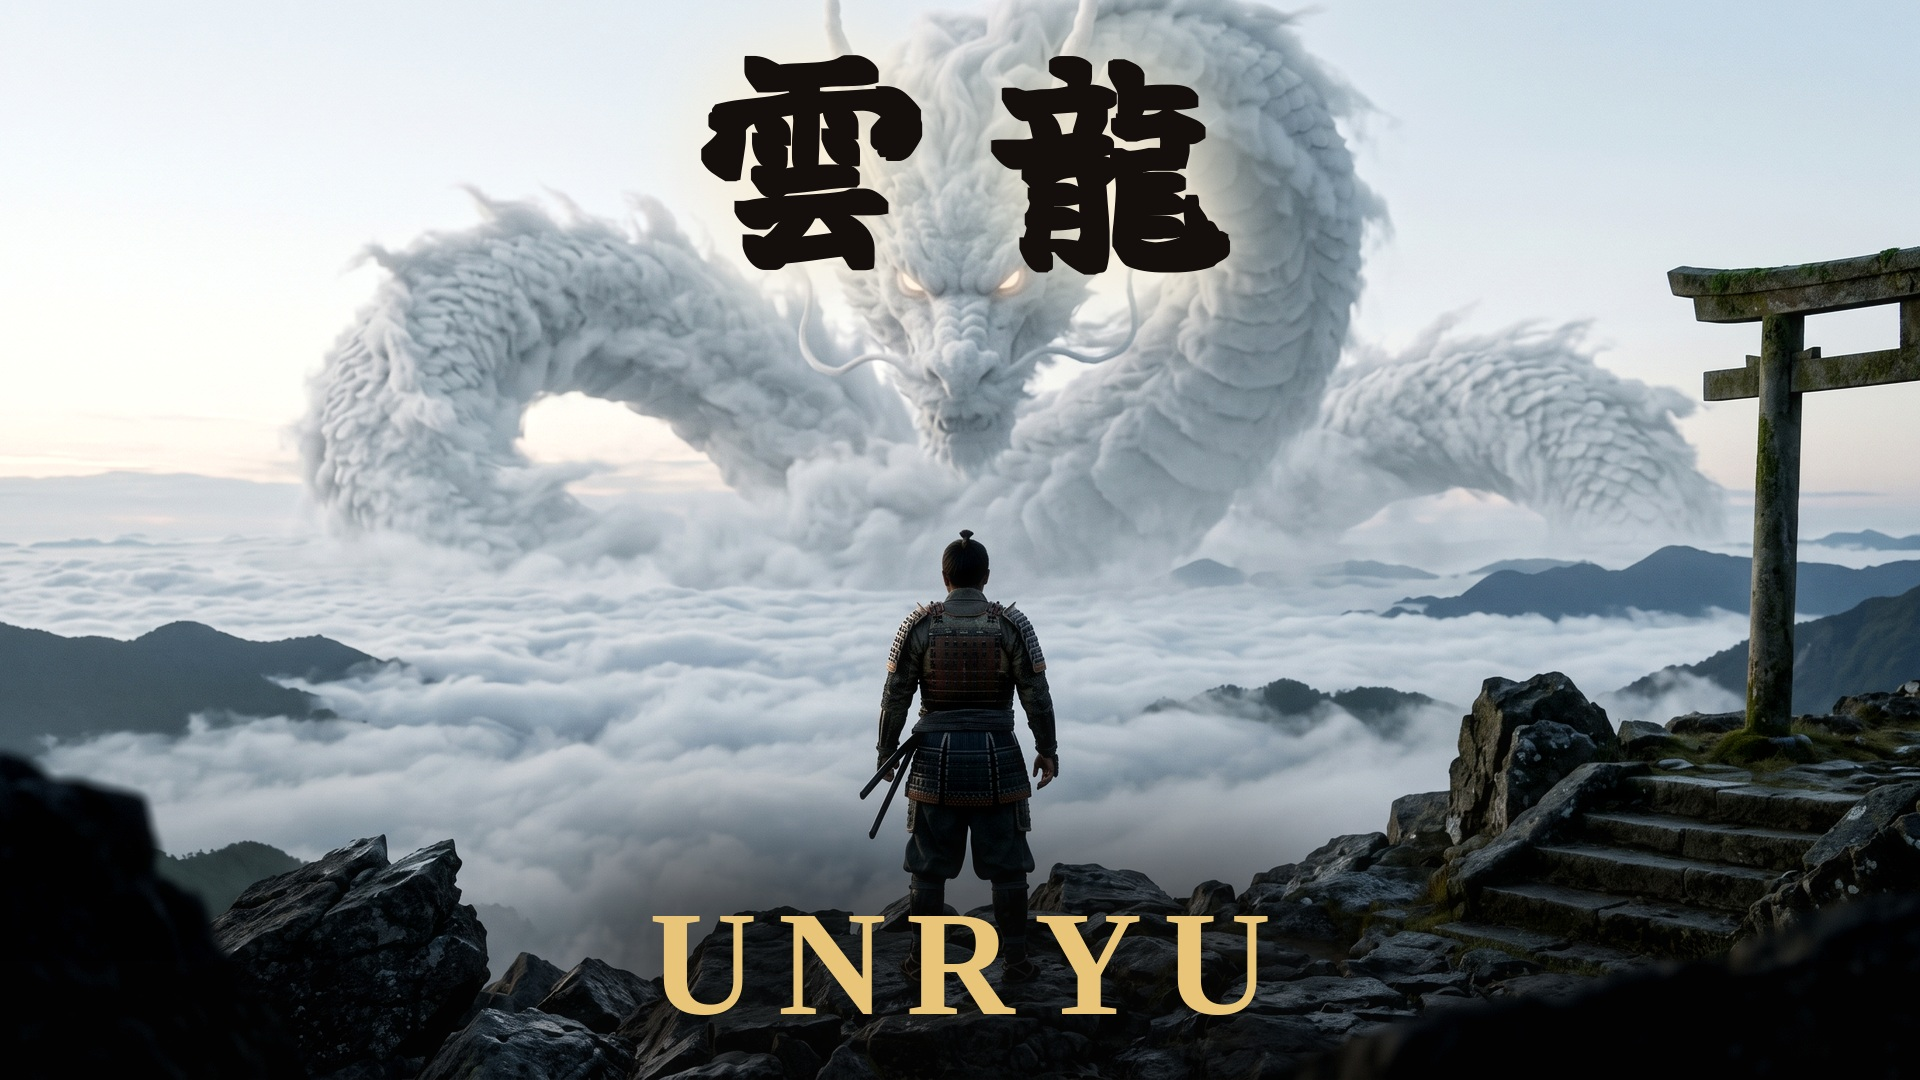
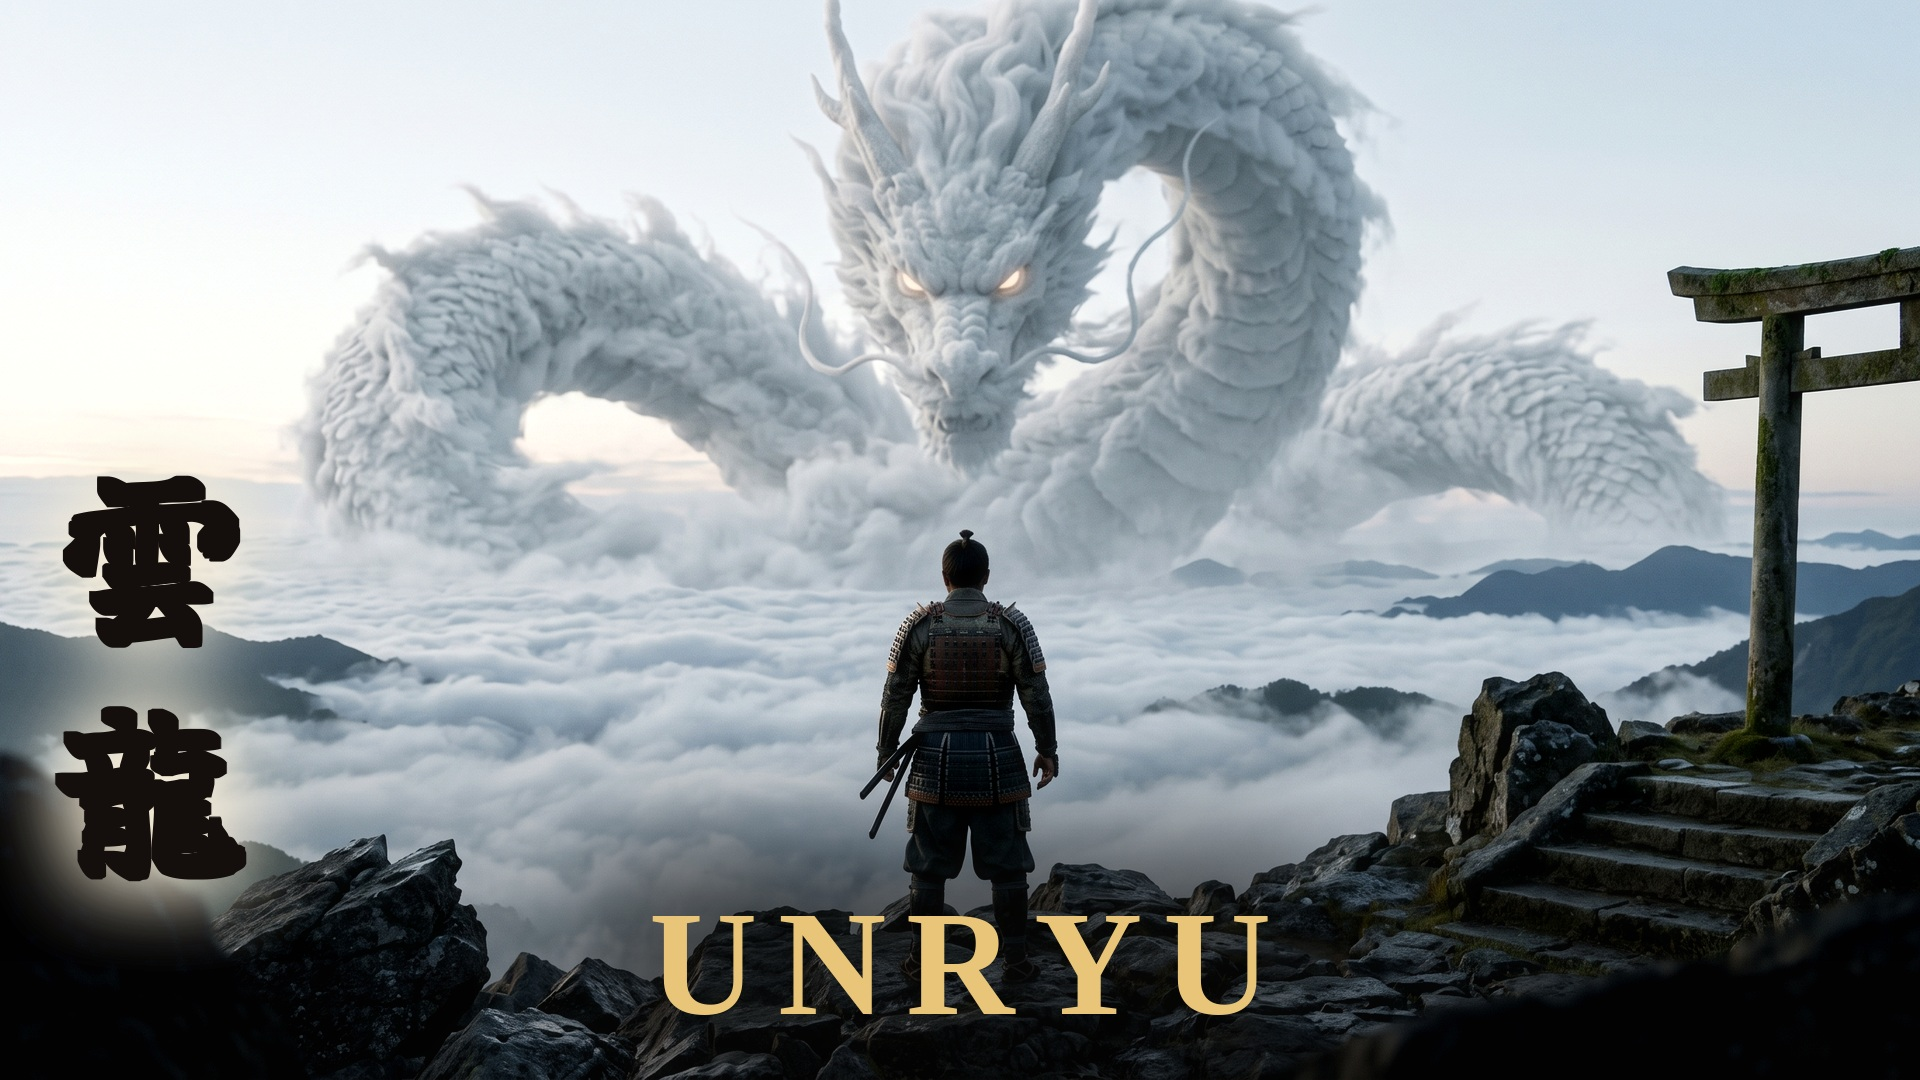
UNRYU: move thumbnail kanji to vertical left column (was misapplied to wisdom overlay); revert overlay to original horizontal

Changed region(s): [[0.3438, 0.0, 0.6562, 0.3056], [0.0, 0.4278, 0.1562, 0.8861]]

diff --git a/stillwave/assets/unryu-wisdom-overlay.py b/stillwave/assets/unryu-wisdom-overlay.py
@@ -5,11 +5,9 @@
 雲龍 (cloud dragon): after difficulty, clarity. Overlay ≠ title concept (series
 rule, same logic as WA/ICHIGO).
 
-VERTICAL kanji column, upper-left, positioned right where the dragon's left
-tail curl ends (open sky there) — user redirect 2026-08-26. Romaji/gloss sit
-below the column. In CapCut: TEXT layer on the top track, start 0:03, end
-0:14, fade-in 2s / fade-out 2s, no glow/shadow/box. Cream #F5EAD2, Liberation
-Serif Bold (the locked channel font). 4 kanji, stacked top-to-bottom."""
+LEFT-lower over the dark foreground rock. In CapCut: TEXT layer on the top
+track, start 0:03, end 0:14, fade-in 2s / fade-out 2s, no glow/shadow/box.
+Cream #F5EAD2, Liberation Serif Bold (the locked channel font). 4 kanji."""
 from PIL import Image, ImageDraw, ImageFont, ImageFilter
 
 SRC = "/home/user/dan-documents/stillwave/assets/unryu-2h-source.jpg"
@@ -24,19 +22,21 @@ X = 96
 
 img = Image.new("RGBA", (W, H), (0, 0, 0, 0))
 
-# soft scrim behind the whole left column (kanji + romaji + gloss), upper-left
+# soft scrim so cream reads over the dark foreground rock in the lower-left
 s = Image.new("RGBA", (W, H), (0, 0, 0, 0))
-ImageDraw.Draw(s).rounded_rectangle((-200, 470, 420, 1060), radius=170, fill=(6, 6, 8, 150))
+ImageDraw.Draw(s).rounded_rectangle((-200, 636, 900, 1060), radius=170, fill=(6, 6, 8, 165))
 img.alpha_composite(s.filter(ImageFilter.GaussianBlur(100)))
 
-# 雲外蒼天 — brush kanji, VERTICAL stack (top-to-bottom), cream, faint warm glow
-f = ImageFont.truetype(KANJI, 92)
+# 雲外蒼天 — brush kanji (4 chars), cream, faint warm glow
+f = ImageFont.truetype(KANJI, 108)
 mask = Image.new("L", (W, H), 0)
 md = ImageDraw.Draw(mask)
-chars, pitch, y0, cx = ["雲", "外", "蒼", "天"], 118, 505, X + 50
+chars, pitch, y0 = ["雲", "外", "蒼", "天"], 128, 692
+l0, _, r0, _ = f.getbbox(chars[0])
+c0 = X + (r0 - l0) / 2
 for i, ch in enumerate(chars):
     l, t, r, b = f.getbbox(ch)
-    md.text((cx - (l + (r - l) / 2), y0 + i * pitch - t), ch, font=f, fill=255)
+    md.text((c0 + i * pitch - (l + (r - l) / 2), y0), ch, font=f, fill=255)
 glow = Image.new("RGBA", (W, H), (0, 0, 0, 0))
 glow.paste((250, 224, 166, 255), (0, 0),
            mask.filter(ImageFilter.GaussianBlur(18)).point(lambda p: int(p * 0.45)))
@@ -45,9 +45,9 @@ img.alpha_composite(Image.composite(Image.new("RGBA", (W, H), CREAM),
                                     Image.new("RGBA", (W, H), (0, 0, 0, 0)), mask))
 
 d = ImageDraw.Draw(img)
-d.text((X + 4, 950), "Ungai soten", font=ImageFont.truetype(SERIF, 48), fill=CREAM)
-d.text((X + 4, 1014), "Beyond the clouds, a blue sky",
-       font=ImageFont.truetype(SERIF, 32), fill=SUB)
+d.text((X + 4, 866), "Ungai soten", font=ImageFont.truetype(SERIF, 54), fill=CREAM)
+d.text((X + 4, 940), "Beyond the clouds, a blue sky",
+       font=ImageFont.truetype(SERIF, 38), fill=SUB)
 
 img.save(OUT)
 print("saved", OUT)

diff --git a/stillwave/assets/unryu-compose-thumb.py b/stillwave/assets/unryu-compose-thumb.py
@@ -1,7 +1,8 @@
 #!/usr/bin/env python3
 """UNRYU thumbnail — 雲龍 dark sumi ink + cream halo (bright cloud-sea sky needs
-dark ink for contrast, same lesson as SHOSHIN/ICHIGO), upper-centre over the
-cloud-dragon/sky. UNRYU large gold serif low-centre on the dark foreground rock.
+dark ink for contrast, same lesson as SHOSHIN/ICHIGO), VERTICAL stack in the
+left corner, positioned right where the dragon's tail curl ends (user redirect
+2026-08-26). UNRYU large gold serif low-centre on the dark foreground rock.
 """
 from PIL import Image, ImageDraw, ImageFont, ImageFilter, ImageEnhance, ImageChops
 
@@ -50,6 +51,26 @@ def _lerp_gold(f):
     return GOLD_STOPS[-1][1]
 
 
+def sumi_v(im, chars, size, cx, top_y, pitch, halo=42, bold=9):
+    """vertical (top-to-bottom) dark-sumi kanji with a soft cream halo."""
+    f = ImageFont.truetype(KANJI, size)
+    mask = Image.new("L", (W, H), 0)
+    md = ImageDraw.Draw(mask)
+    for i, ch in enumerate(chars):
+        l, t, r, b = f.getbbox(ch)
+        md.text((cx - (l + (r - l) / 2), top_y + i * pitch - t), ch, font=f, fill=255)
+    if bold and bold >= 3:
+        mask = mask.filter(ImageFilter.MaxFilter(bold))
+    halo_l = Image.new("RGBA", (W, H), (0, 0, 0, 0))
+    halo_l.paste((248, 238, 216, 255), (0, 0),
+                 mask.filter(ImageFilter.GaussianBlur(halo)).point(lambda p: int(p * 0.9)))
+    im.alpha_composite(halo_l)
+    im.alpha_composite(halo_l)
+    ink_l = Image.new("RGBA", (W, H), (0, 0, 0, 0))
+    ink_l.paste(INK, (0, 0), mask)
+    im.alpha_composite(ink_l)
+
+
 def sumi_h(im, chars, size, cx, top_y, pitch, halo=42, bold=9):
     """horizontal dark-sumi kanji with a soft cream halo (reads over bright sky)."""
     f = ImageFont.truetype(KANJI, size)
@@ -91,8 +112,8 @@ def spaced_centre(im, text, size, cx, y, fill=GOLD, ls=16, font=SERIF, scrim=Tru
 
 im = base()
 CENTRE = 960
-# 雲龍 — horizontal dark sumi ink + cream halo, upper-centre over the cloud-dragon/sky
-sumi_h(im, ["雲", "龍"], 240, CENTRE, 60, pitch=300, halo=44, bold=11)
+# 雲龍 — VERTICAL dark sumi ink + cream halo, left corner, right after the dragon's tail
+sumi_v(im, ["雲", "龍"], 190, 150, 480, pitch=230, halo=40, bold=11)
 # UNRYU — large gold serif, low-centre on the dark foreground rock
 spaced_centre(im, "UNRYU", 150, CENTRE, 880, fill=GOLD, ls=20, font=SERIF)
 im.convert("RGB").save(OUT, quality=94)
